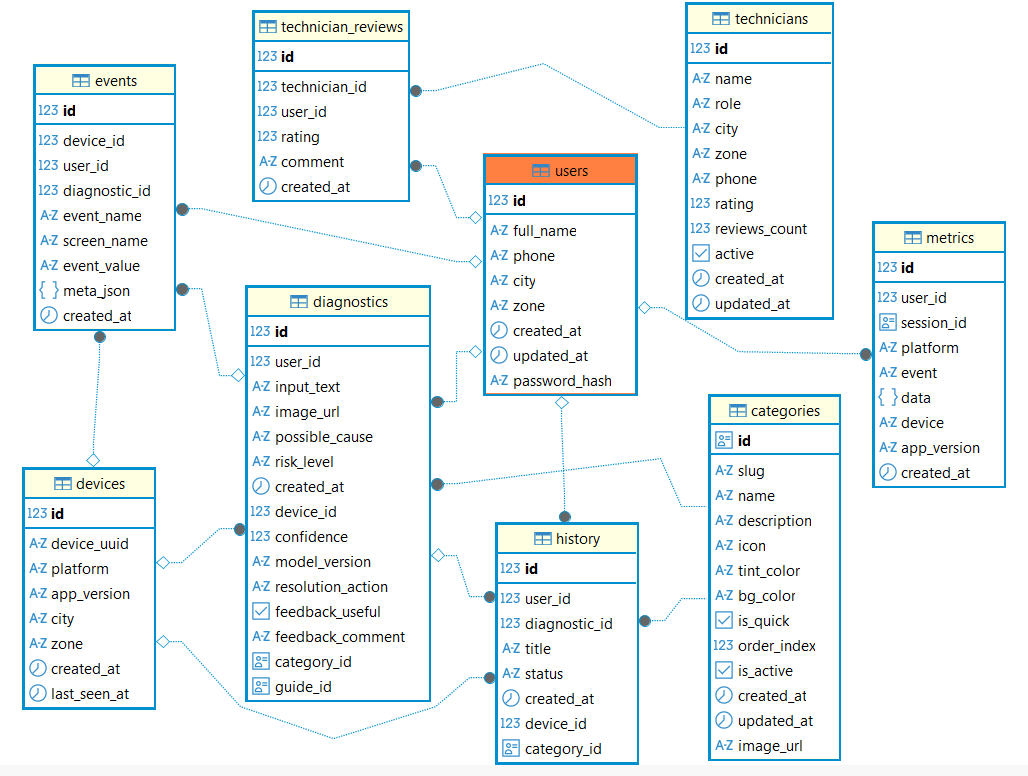
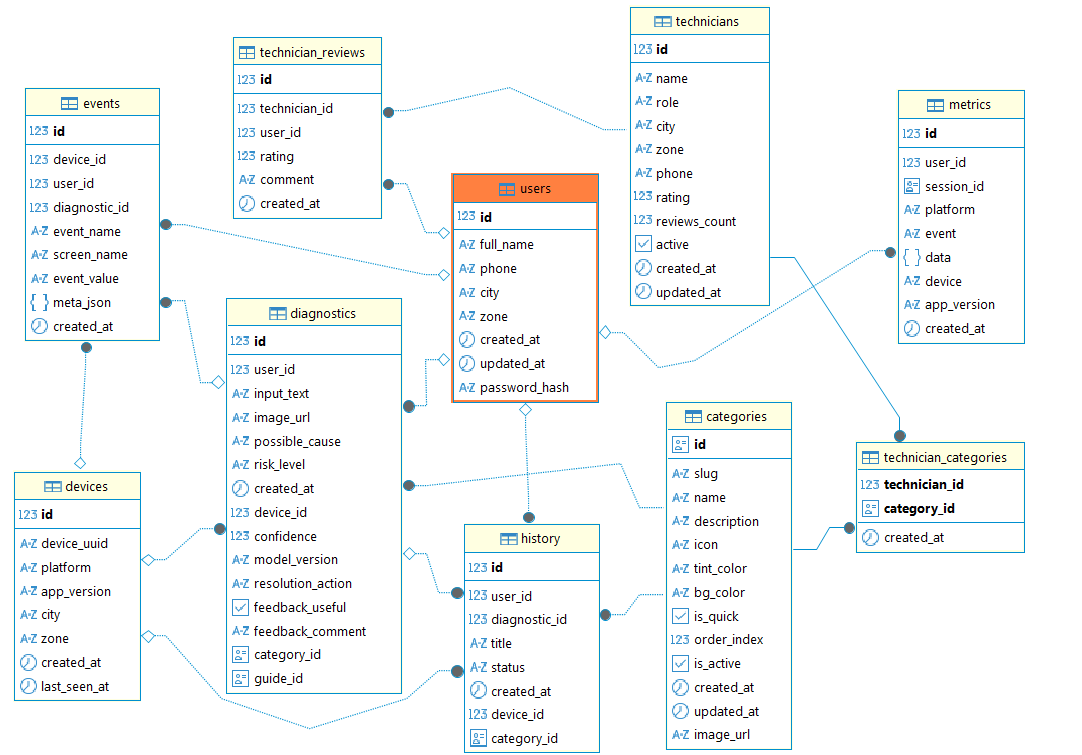
se modifica GET /technicians acepta adicional  categorySlug

Changed region(s): [[0.0, 0.0, 0.9961, 1.0]]

diff --git a/src/models/technician.model.js b/src/models/technician.model.js
@@ -1,10 +1,28 @@
 const db = require('../config/db');
 
-const findActiveByCity = async (city) => {
-  const result = await db.query(
-    'SELECT id, name, role, zone, phone, rating, reviews_count FROM technicians WHERE city = $1 AND active = true ORDER BY rating DESC, reviews_count DESC',
-    [city]
-  );
+const findActiveByCity = async (city, categorySlug) => {
+  const params = [city];
+  let query = `
+    SELECT t.id, t.name, t.role, t.zone, t.phone, t.rating, t.reviews_count
+    FROM technicians t
+  `;
+
+  if (categorySlug) {
+    query += `
+      INNER JOIN technician_categories tc ON tc.technician_id = t.id
+      INNER JOIN categories c ON c.id = tc.category_id
+      WHERE t.city = $1 AND t.active = true AND c.slug = $2
+    `;
+    params.push(categorySlug);
+  } else {
+    query += `
+      WHERE t.city = $1 AND t.active = true
+    `;
+  }
+
+  query += ' ORDER BY t.rating DESC, t.reviews_count DESC';
+
+  const result = await db.query(query, params);
   return result.rows;
 };
 

diff --git a/src/services/technician.service.js b/src/services/technician.service.js
@@ -1,13 +1,13 @@
 const technicianModel = require('../models/technician.model');
 
-const listByCity = async (city) => {
+const listByCity = async (city, categorySlug) => {
   if (!city) {
     const error = new Error('city is required');
     error.status = 400;
     throw error;
   }
 
-  const rows = await technicianModel.findActiveByCity(city);
+  const rows = await technicianModel.findActiveByCity(city, categorySlug);
   return rows.map((row) => ({
     id: row.id,
     name: row.name,

diff --git a/src/controllers/technician.controller.js b/src/controllers/technician.controller.js
@@ -2,8 +2,8 @@ const technicianService = require('../services/technician.service');
 
 const listByCity = async (req, res, next) => {
   try {
-    const { city } = req.query;
-    const technicians = await technicianService.listByCity(city);
+    const { city, categorySlug } = req.query;
+    const technicians = await technicianService.listByCity(city, categorySlug);
     res.json(technicians);
   } catch (error) {
     next(error);
